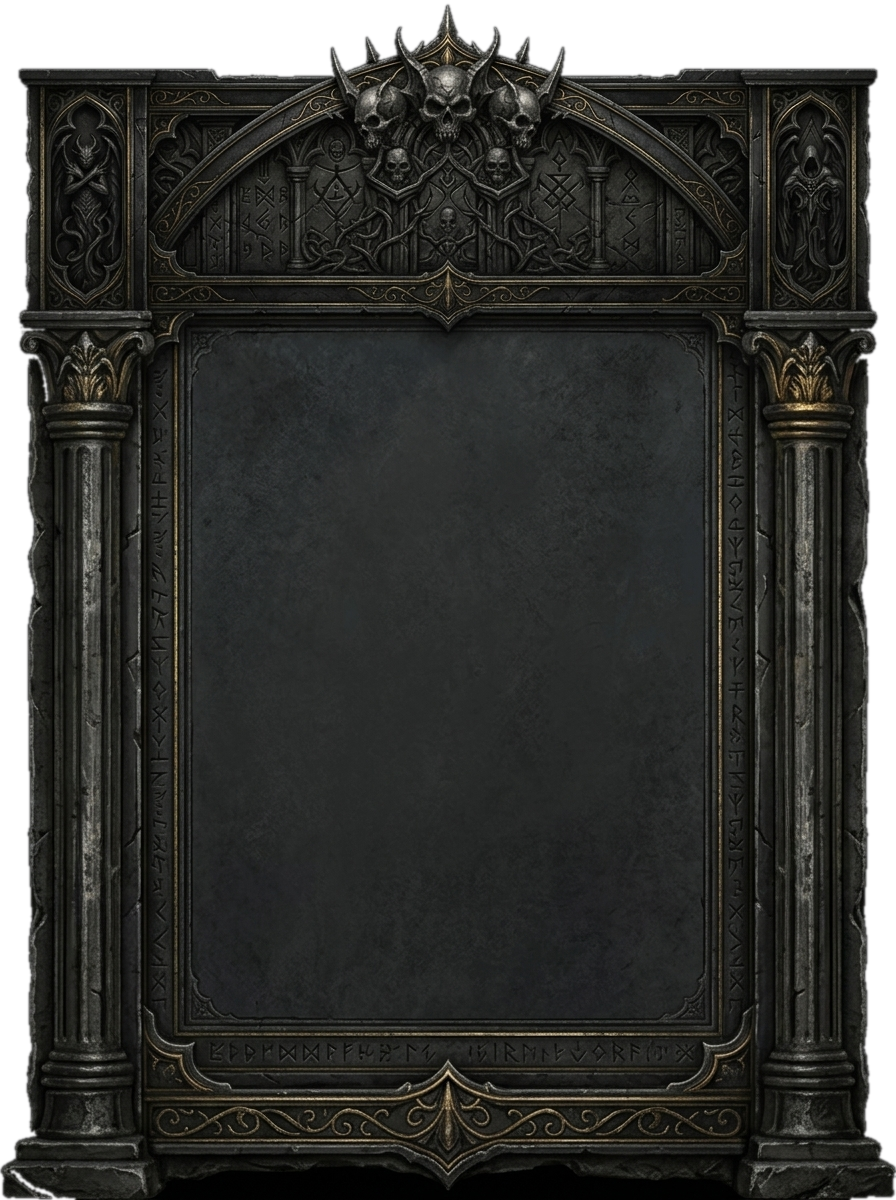
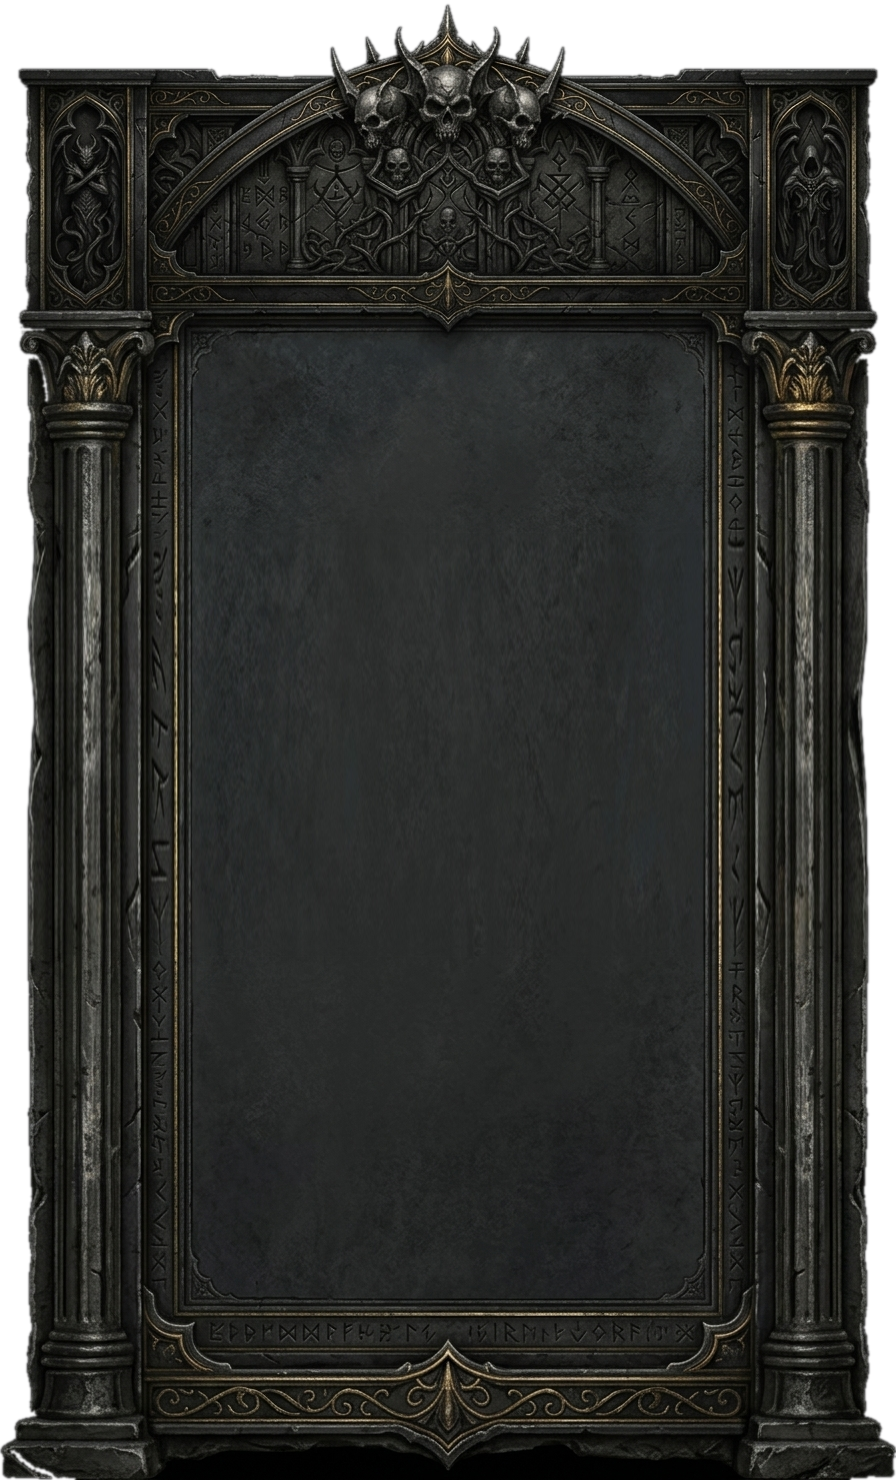
Enhance gothic panel heights, layout anchors, palette remap and inventory altar frame

Changed region(s): [[0.0, 0.0, 1.0, 1.0]]

diff --git a/DevilutionX/Source/engine/render_bridge.cpp b/DevilutionX/Source/engine/render_bridge.cpp
@@ -1032,6 +1032,7 @@ bool IsCharacterSheetOpen()
 
 void ToggleCharacterSheet()
 {
+	PlaySFX(IS_TITLEMOV);
 	chrflag = !chrflag;
 	if (chrflag && QuestLogIsOpen)
 		QuestLogIsOpen = false;
@@ -1044,6 +1045,7 @@ bool IsQuestLogOpen()
 
 void ToggleQuestLog()
 {
+	PlaySFX(IS_TITLEMOV);
 	QuestLogIsOpen = !QuestLogIsOpen;
 	if (QuestLogIsOpen) {
 		if (chrflag) chrflag = false;
@@ -1058,6 +1060,7 @@ bool IsInventoryOpen()
 
 void ToggleInventory()
 {
+	PlaySFX(IS_TITLEMOV);
 	sbookflag = false;
 	CloseGoldWithdraw();
 	CloseStash();

diff --git a/DevilutionX/Source/inv.cpp b/DevilutionX/Source/inv.cpp
@@ -1073,8 +1073,8 @@ void DrawInv(const Surface &out)
 				Point pt = topPos + Displacement { x, y };
 				if (out.InBounds(pt)) {
 					std::uint8_t &pix = out[pt];
-					if (pix >= PAL16_BEIGE && pix < PAL16_BEIGE + 16) {
-						pix = PAL16_GRAY + (pix - PAL16_BEIGE);
+					if (pix >= 176 && pix <= 191) {
+						pix = 224 + (pix - 176);
 					}
 				}
 			}
